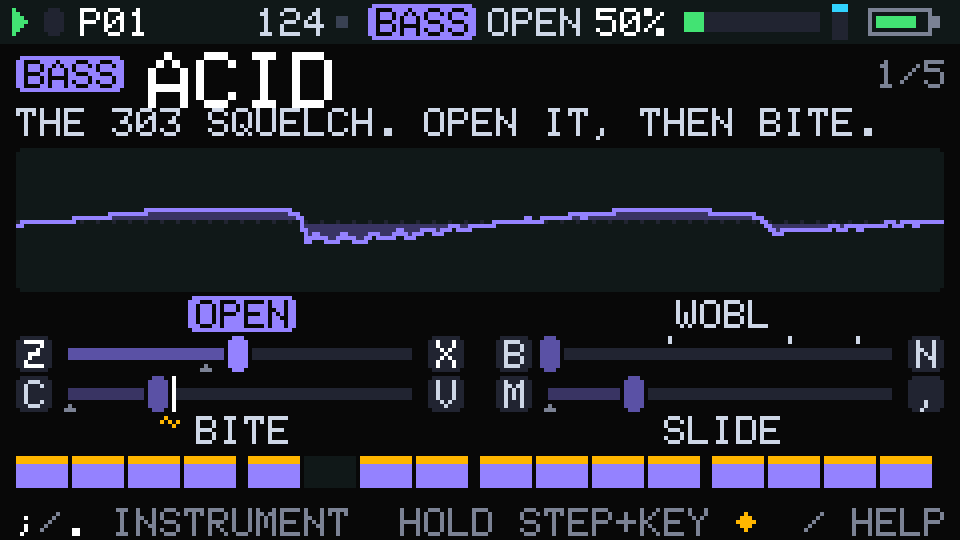
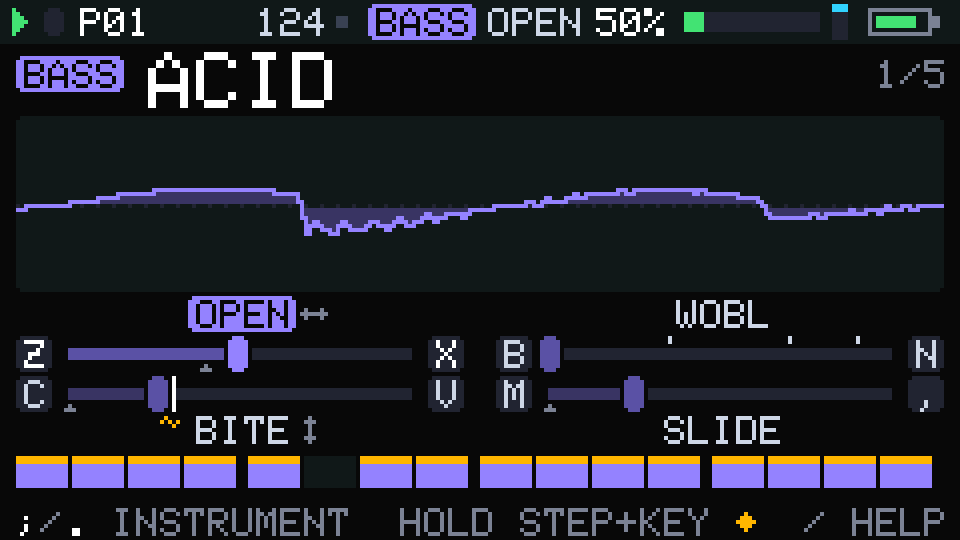
Instrument page: no taglines; the picture takes their rows
The owner: "get the stupid tag lines for each synth out of there". The
instrument page no longer draws a set's `about "..."` line (it stays in
the .pgm, the parser and the built-in table as an author's note). The
scope box now starts under the name: kScopeY0 37 -> 29 (rows 29..72,
44 tall instead of 36); the partial push, the instrument list and both
device and host paths follow the constant. CLASSIC / UNKNOWN move their
one-line explanation to the header's right (OWN SAVED SOUND / NOT IN
FIRMWARE). Docs (UX 10.3, MANUAL 4.4, MACROLAB, macros/INDEX, STATE:
standing taste rule) and the instrument-page screenshots regenerated.

Claude-Session: https://claude.ai/code/session_0184BPLkX1vesFQsqL6SSkXY

diff --git a/lib/pg/src/pg/ui/ui_draw.cpp b/lib/pg/src/pg/ui/ui_draw.cpp
@@ -650,8 +650,9 @@ void miniStrip(Gfx& g, const Ui& ui, int y, int track, int page, int play, int h
 }  // namespace
 
 // ---- the instrument page (UX.md 10.3) -----------------------------------------------
-// Header: track chip, the instrument's name (L), its place in the list; the player's
-// about line; the picture (a live scope of the track's voice, kScopeY0..kScopeY1);
+// Header: track chip, the instrument's name (L), its place in the list; no caption
+// (a set's `about` line is an author's note and is not drawn). The picture (a live
+// scope of the track's voice, kScopeY0..kScopeY1) starts right under the name; then
 // the four macros as horizontal sliders in a 2 x 2 grid, the left hand's pairs
 // (z x, c v) on the left, the right hand's (b n, m ,) on the right. CLASSIC (no
 // instrument) and an unknown id keep the picture and invite a choice below it.
@@ -766,7 +767,7 @@ void Ui::drawInstrument(Framebuffer& fb) {
     // CLASSIC (or an id this firmware lacks): the same picture, and two ways in
     const uint16_t id = instrumentIdOf(t);
     g.text(x + 6, 13, id ? "UNKNOWN" : "CLASSIC", id ? AMBER : TEXT, 2);
-    g.text(4, 27, id ? "NOT IN THIS FIRMWARE: PLAYS AS SAVED." : "PLAYS ITS OWN SAVED SOUND.", TEXT);
+    g.textR(235, 15, id ? "NOT IN FIRMWARE" : "OWN SAVED SOUND", id ? AMBER : DIM);
     drawScope(fb);
     g.text(4, 76, "PICK AN INSTRUMENT", WHITE);
     catInt(buf, n);
@@ -801,10 +802,6 @@ void Ui::drawInstrument(Framebuffer& fb) {
   } else {
     catInt(cat(catInt(buf, idx + 1), "/"), n);
     g.textR(235, 15, buf, DIM);
-  }
-  if (s->tagline[0]) {
-    fitText(buf, s->tagline, 39);
-    g.text(4, 27, buf, TEXT);
   }
   drawScope(fb);
   // the four macros
@@ -903,7 +900,7 @@ void Ui::drawInstrument(Framebuffer& fb) {
 
 // The track's instruments after ; . 9 (for 1.5 s): a column at the picture's right
 // edge, the current one in the middle as a chip, its neighbours (the list wraps)
-// above and below, so the about line under the name stays readable.
+// above and below; the rest of the picture stays in view.
 void Ui::drawInstrumentList(Framebuffer& fb) {
   Gfx g(fb);
   const int t = sel_;

diff --git a/lib/pg/src/pg/ui/ui.h b/lib/pg/src/pg/ui/ui.h
@@ -43,7 +43,7 @@ constexpr int kListPerMount = 24;
 constexpr int kMacroIndex0 = kParamsPerTrack;
 inline bool isMacroIndex(int i) { return i >= kMacroIndex0 && i < kMacroIndex0 + kTrackMacros; }
 // The instrument page's picture (UX.md 10.3): the scope's box, inclusive rows.
-constexpr int kScopeX0 = 4, kScopeY0 = 37, kScopeY1 = 72;
+constexpr int kScopeX0 = 4, kScopeY0 = 29, kScopeY1 = 72;
 static_assert(Scope::kCols == kScreenW - 2 * kScopeX0, "one trace value per column of the box");
 
 class Ui {

diff --git a/docs/UX.md b/docs/UX.md
@@ -393,9 +393,8 @@ All coordinates are inclusive pixels on the 240x135 framebuffer, with x to the r
 
 Real-UI screenshots with real audio in the picture, drawn by `build/host/ui_shot host/ui_scripts/instrument.txt docs/ux` (the script posts a groove and lets the engine play before each shot). Layout code: `drawInstrument` in `lib/pg/src/pg/ui/ui_draw.cpp`; the picture's logic: `lib/pg/src/pg/ui/scope.h`.
 
-* **Header** y 13: track chip at x 4, then the **instrument's name** in FONT_L (WHITE); right: its place in the track's list `2/5` DIM, or while a step is held `STEP n` + an AMBER `◆LOCK` chip.
-* **About line** y 27, TEXT: the set's player line (`about "..."` in the `.pgm`, at most 38 characters, docs/MACROLAB.md), upper case. Nothing when a set has none (the author's header comment is the lab's, not the player's).
-* **The picture** (`kScopeX0`..: x 4..235, y 37..72): a PANEL box, a dotted RAISED centre line, and the selected track's own voice (before level, pan and the mix) as an oscilloscope trace: the edge in the track colour, filled toward the centre line in track DIM (a muted track: MID edge, TINT fill). One trace value per column (232). What the trace shows (`Scope`):
+* **Header** y 13: track chip at x 4, then the **instrument's name** in FONT_L (WHITE); right: its place in the track's list `2/5` DIM, or while a step is held `STEP n` + an AMBER `◆LOCK` chip. No caption under the name: a set's `about "..."` line (docs/MACROLAB.md) is an author's note and is not displayed, and the picture starts right under the header.
+* **The picture** (`kScopeX0`..: x 4..235, y 29..72): a PANEL box, a dotted RAISED centre line, and the selected track's own voice (before level, pan and the mix) as an oscilloscope trace: the edge in the track colour, filled toward the centre line in track DIM (a muted track: MID edge, TINT fill). One trace value per column (232). What the trace shows (`Scope`):
   * synths: about 2 (bass) or 3 (lead) periods of the note the track last started, so the picture has the same scale in every register; the window starts at a rising crossing of the wave's middle, the one that best matches the previous frame, so a held note stands still; a note that started within the window is drawn from its attack at the left edge (`instrument.png`);
   * drums: from the hit's note-on over a fixed time per voice (kick 340 ms, snare and clap 260, closed hat 70, open hat 420, perc 300 ms), growing from the left as it plays and held until the next hit; drawn with a square-root scale so the decay reads (`instrument-kick.png`, `instrument-hat.png`);
   * gain: the trace's peak sits near the top of the box; it drops at once and rises slowly (about 15 dB/s, at most +52 dB), so the hats (15 to 20 dB quieter than the rest) fill the box and a decaying note still decays;
@@ -405,9 +404,9 @@ Real-UI screenshots with real audio in the picture, drawn by `build/host/ui_shot
   * the slider row (9 px): a key cap at each end (RAISED 9x9, the key letter TEXT, WHITE when lit; the cap turns WHITE with BG ink while its key moves the macro), a 3 px RAISED groove between them filled from the left up to the position (track DIM, MID when lit, AMBER_D when locked), the handle (a 5x9 cap with a 1 px BG outline: track MID, the track colour when focused, WHITE when moving, AMBER for a held note's value, RED when live), the **default** as a small DIM notch under the groove, and the positions where an **enum parameter jumps** (`macro::enumJumps`, the other macros where they are; recomputed one macro per frame when they move) as 1x2 TEXT ticks above it. A held note's value: the handle at the value and a 1x9 WHITE tick at the base (the macro's position) (`instrument-lock.png`, `motion-held.png`). While a pattern with motion plays, the handle is where the engine has the macro now (`EngineStatus::macroPos`, it moves by itself) and the WHITE tick marks the base (`motion-playing.png`).
   * a macro the set doesn't have: LINE outlines of the caps and a flat RAISED groove.
 * Step strip y 114 as before (a note with own values = AMBER top), footer `;/. INSTRUMENT  HOLD STEP+KEY ◆`, or while held `MOVE A MACRO = NOTE VALUE  DEL`. The value pop-up is not shown here (the sliders show the value; the status-bar chip shows the focused one's).
-* **The instrument list** (`instrument-list.png`): after `;` `.` `9`, for 1.5 s, a column over the picture's right end (x 144..235, y 37..72, RAISED, framed in the track colour): the current instrument as a chip with its place (`2/5`), the previous one above and the next one below (the list wraps, marked with DIM arrows). The about line stays readable under it.
-* **CLASSIC** (`instrument-classic.png`): the chip, `CLASSIC` in FONT_L, `PLAYS ITS OWN SAVED SOUND.`, the same picture, then `PICK AN INSTRUMENT` (WHITE) with `5 FOR BASS` (DIM) and two cards where the slider block would be: the `.` `9` key caps and the first instrument's name in FONT_L (track colour), the `;` cap and the last one's; under them `CTRL+Z RIGHT AFTER = BACK TO THIS` (DIM). An id this firmware doesn't know shows `UNKNOWN` (amber) and `NOT IN THIS FIRMWARE: PLAYS AS SAVED.`
-* **Redraw.** The page redraws as any other when its state changes; on frames where only the picture moved, only the picture's band (rows 37..72, with the status bar if that changed too) is redrawn and pushed (`Ui::dirtyRows`). When something is drawn over the band (an overlay, the list, a toast) the frame is redrawn whole.
+* **The instrument list** (`instrument-list.png`): after `;` `.` `9`, for 1.5 s, a column over the picture's right end (x 144..235, y 29..72, RAISED, framed in the track colour): the current instrument as a chip with its place (`2/5`), the previous one above and the next one below (the list wraps, marked with DIM arrows).
+* **CLASSIC** (`instrument-classic.png`): the chip, `CLASSIC` in FONT_L, `OWN SAVED SOUND` (DIM) at the header's right, the same picture, then `PICK AN INSTRUMENT` (WHITE) with `5 FOR BASS` (DIM) and two cards where the slider block would be: the `.` `9` key caps and the first instrument's name in FONT_L (track colour), the `;` cap and the last one's; under them `CTRL+Z RIGHT AFTER = BACK TO THIS` (DIM). An id this firmware doesn't know shows `UNKNOWN` and `NOT IN FIRMWARE` (both amber); it plays as saved.
+* **Redraw.** The page redraws as any other when its state changes; on frames where only the picture moved, only the picture's band (rows 29..72, with the status bar if that changed too) is redrawn and pushed (`Ui::dirtyRows`). When something is drawn over the band (an overlay, the list, a toast) the frame is redrawn whole.
 
 **Design notes.** Sliders, not bars or dials: at 240x135 a horizontal slider 112 px wide gives the position, the default, the jump ticks and both end words room on one line each, and the key caps at its ends say which key goes which way. Vertical faders beside the picture left no room for the end words (up to 8 characters) or the names; dials of 25 px could not carry two end words in a 60 px column. The 2 x 2 block keeps each hand's pairs on its own side of the screen, as on the keyboard.
 
@@ -515,7 +514,7 @@ Real-UI screenshots with real audio in the picture, drawn by `build/host/ui_shot
 
 | Item | Timing |
 |---|---|
-| Frame rate | Redraw at 30 fps, the full framebuffer, pushed in one transfer. Only redraw when something changed (status, revision, UI state, a timer). Two smaller pushes: the status bar alone (rows 0..10), and on the instrument page the picture's band alone (rows 37..72, 10.3). |
+| Frame rate | Redraw at 30 fps, the full framebuffer, pushed in one transfer. Only redraw when something changed (status, revision, UI state, a timer). Two smaller pushes: the status bar alone (rows 0..10), and on the instrument page the picture's band alone (rows 29..72, 10.3). |
 | Hold threshold (step, TAB) | 250 ms. Modifier overlay delay 200 ms. `/` tap vs hold 400 ms. |
 | Value repeat | 300 ms delay, then every 40 ms, step 1→2→4 at 0.5 s intervals (5.2). |
 | Sweep (`[ ]`) | 48 units/s, sent every 40 ms. A 150 ms detent at 64. |

diff --git a/docs/MACROLAB.md b/docs/MACROLAB.md
@@ -88,7 +88,7 @@ One file per set, plain text. Keep them under `macros/<track>/` (the lab does no
 # ACID -- family: INTERACTION.     <- the first line, a comment: the set's header (the lab shows it)
 voice bass                         # first statement: kick snare clap chh ohh perc bass lead
 name ACID                          # optional, up to 12 characters (else the file name)
-about "The 303 squelch. Open it, then bite."   # optional: the player's line (up to 38 characters)
+about "The 303 squelch. Open it, then bite."   # optional: an author's note (up to 38 characters), not displayed
 base wave=0 sub=40 lfoshape=sine   # optional, any number of lines: fixed values under the macros
 
 macro OPEN 0.4 "SHUT" "OPEN" "the 303 filter"   # up to 4 macros; name up to 6 characters; start
@@ -134,7 +134,7 @@ macro BELL "ORGAN" "BELL"
 | line | |
 |---|---|
 | `# TEXT` | the first non-blank line, if it is a comment, is the set's **header** line (`MacroSet::about`, up to 72 characters, the rest is cut): the author's, shown by the lab and listed in the index. When it starts with the set's name and ` -- ` (the round-1 header `# ACID -- family: ...`), that part is dropped: the header line is then `family: ...` |
-| `about "TEXT"` | optional, once: the **player's line** (`MacroSet::tagline`), one short sentence of 1 to 38 characters that fits the instrument page under the name (shown in capitals). Say what the instrument is and what to do with it, in a player's words ("The 303 squelch. Open it, then bite."), not the family or the idea being tested. Longer is an error, not cut |
+| `about "TEXT"` | optional, once: an **author's note** (`MacroSet::tagline`), one short sentence of 1 to 38 characters. It is kept in the set and the built-in table but **not displayed** anywhere (the device and the lab show no caption for an instrument: the owner's rule, docs/STATE.md). Longer is an error, not cut |
 | `voice TRACK` | required, first statement. `kick snare clap chh ohh perc bass lead` (also `snar`, `closedhat`, `openhat`) |
 | `name NAME` | optional, one word, up to 12 characters, shown in capitals |
 | `base p=v p=v ...` | optional, repeatable; no spaces around `=` |
@@ -212,7 +212,7 @@ The ctest `check_builtin` (`macro_builtin --check`) fails while the checked-in t
 
 ## The sets in macros/
 
-[`macros/INDEX.md`](../macros/INDEX.md) lists every set by voice with its family, its idea and what to try first, and groups the sets by family ("What round 1 is testing"), so marks can be read back as evidence about a kind of macro. Every file starts with a comment header: `# NAME -- family: FAMILY.`, then the idea being tested and what the player should feel if it works, and has an `about "..."` line after its name: what the player reads on the instrument page (`itest_macro_files` checks the first line, which is also the set's header line, that every set has a player's line of at most 38 characters that the built-in table carries, that set names are unique per track, and that no set loads with a warning).
+[`macros/INDEX.md`](../macros/INDEX.md) lists every set by voice with its family, its idea and what to try first, and groups the sets by family ("What round 1 is testing"), so marks can be read back as evidence about a kind of macro. Every file starts with a comment header: `# NAME -- family: FAMILY.`, then the idea being tested and what the player should feel if it works, and has an `about "..."` line after its name, an author's note that is not displayed (`itest_macro_files` checks the first line, which is also the set's header line, that every set has an `about` line of at most 38 characters that the built-in table carries, that set names are unique per track, and that no set loads with a warning).
 
 ## Auditing a set (macro_audit)
 

diff --git a/macros/INDEX.md b/macros/INDEX.md
@@ -2,7 +2,7 @@
 
 Since stage A (2026-11-13) these sets are the **built-in instruments**: `builtin.txt` lists them per voice (the first of each line is what a new project starts with) and `host/tools/macro_builtin` compiles them into the firmware's table (`cmake --build build/host --target macro_builtin && build/host/macro_builtin`, then commit; ctest `check_builtin` fails while it is stale). In `tools/pg-desktop --lab` a file here replaces the built-in of its voice and name while the app runs (docs/MACROLAB.md "Instruments").
 
-Round 1 is not trying to be right. Every set on a voice is built on a different idea of what a macro *is*, so that your GOOD / BAD marks tell us which kinds are fun. Start the lab with `tools/pg-desktop --lab`, pick the track, step through the sets with `<` `>`. The first two macros of every set are the natural pair for the XY pad (the lab puts X and Y on them). Each file's header says the idea and what it should feel like if it works; its `about "..."` line (at most 38 characters) is what a player reads on the instrument page under the name, so it speaks to a player, not about the round. Full format: [docs/MACROLAB.md](../docs/MACROLAB.md).
+Round 1 is not trying to be right. Every set on a voice is built on a different idea of what a macro *is*, so that your GOOD / BAD marks tell us which kinds are fun. Start the lab with `tools/pg-desktop --lab`, pick the track, step through the sets with `<` `>`. The first two macros of every set are the natural pair for the XY pad (the lab puts X and Y on them). Each file's header says the idea and what it should feel like if it works; its `about "..."` line (at most 38 characters) is an author's note and is not displayed. Full format: [docs/MACROLAB.md](../docs/MACROLAB.md).
 
 Model v2 (2026-11-13) changed five sets to use its new features, so marks on them made before that date name the old version (the mark's `@hash` says which): KEYS and TRIO are native morphs (the pad's edges sound as before, the inside mixes the patches), POLES and CRACK carry their words as end labels and have readable macro names (POLES sounds the same; CRACK's PITCH now also lengthens or shortens the body, which round 1 meant but a later line undid), and VOYAGE covers its last wave jump. Every other set sounds exactly as in round 1; TICK, BOOM, WOOD and ALLOY gained end labels only.
 

diff --git a/docs/MANUAL.md b/docs/MANUAL.md
@@ -205,7 +205,7 @@ Everything else works as in GROOVE (pads select and play, `;` `.` octave, `l` ch
 
 ![The bass's instrument POLES](ux/instrument-labels.png)
 
-The page shows the selected track's instrument: its name, a line about it, a live picture of its sound and its four macros. The picture is the track's own voice as an oscilloscope draws it: a held note stands still, a filter sweep reshapes it as you move, a drum hit draws its shape and decay from the left; it settles to a calm line when the track is silent.
+The page shows the selected track's instrument: its name, a live picture of its sound and its four macros. The picture is the track's own voice as an oscilloscope draws it: a held note stands still, a filter sweep reshapes it as you move, a drum hit draws its shape and decay from the left; it settles to a calm line when the track is silent.
 
 The macros are four sliders, the left hand's on the left (`z` `x` macro 1, `c` `v` macro 2), the right hand's on the right (`b` `n` macro 3, `m` `,` macro 4). Each slider has its two keys at its ends: the left key moves it toward the left end, the right key toward the right. Words at the ends (DARK / BRIGHT) say what each end does. A small notch under a slider marks the instrument's default; ticks above it mark where the sound switches in a jump (a new wave, another filter) instead of moving smoothly. The macro you moved last has its name in the track colour; a macro you are moving right now turns white, with its key lit.
 

diff --git a/docs/STATE.md b/docs/STATE.md
@@ -330,6 +330,9 @@ Order of work (owner, updated 2026-11-12):
    Host: 73/73. Before / after WAVs: build/stageg/wav/ (demo_compare --wav). NOT LISTENED TO.
    LATER STAGES (not built): (F) a sampler instrument, in progress as F1 (playback and import
    from the Mac) and F2 (microphone recording).
+   STANDING TASTE RULE (owner, 2026-11-13: "get the stupid tag lines for each synth out of there"):
+   no descriptive captions for instruments on the screen. `about "..."` stays in the .pgm as an
+   author's note, not displayed; the instrument page gives those rows to the picture (y 29..72).
    STANDING RULE (owner, 2026-11-13): development does not wait for macro assessment. The owner
    will request macro changes continually and there will be no single final assessment; a
    retuned .pgm is regenerated into the table and committed like any other change.
